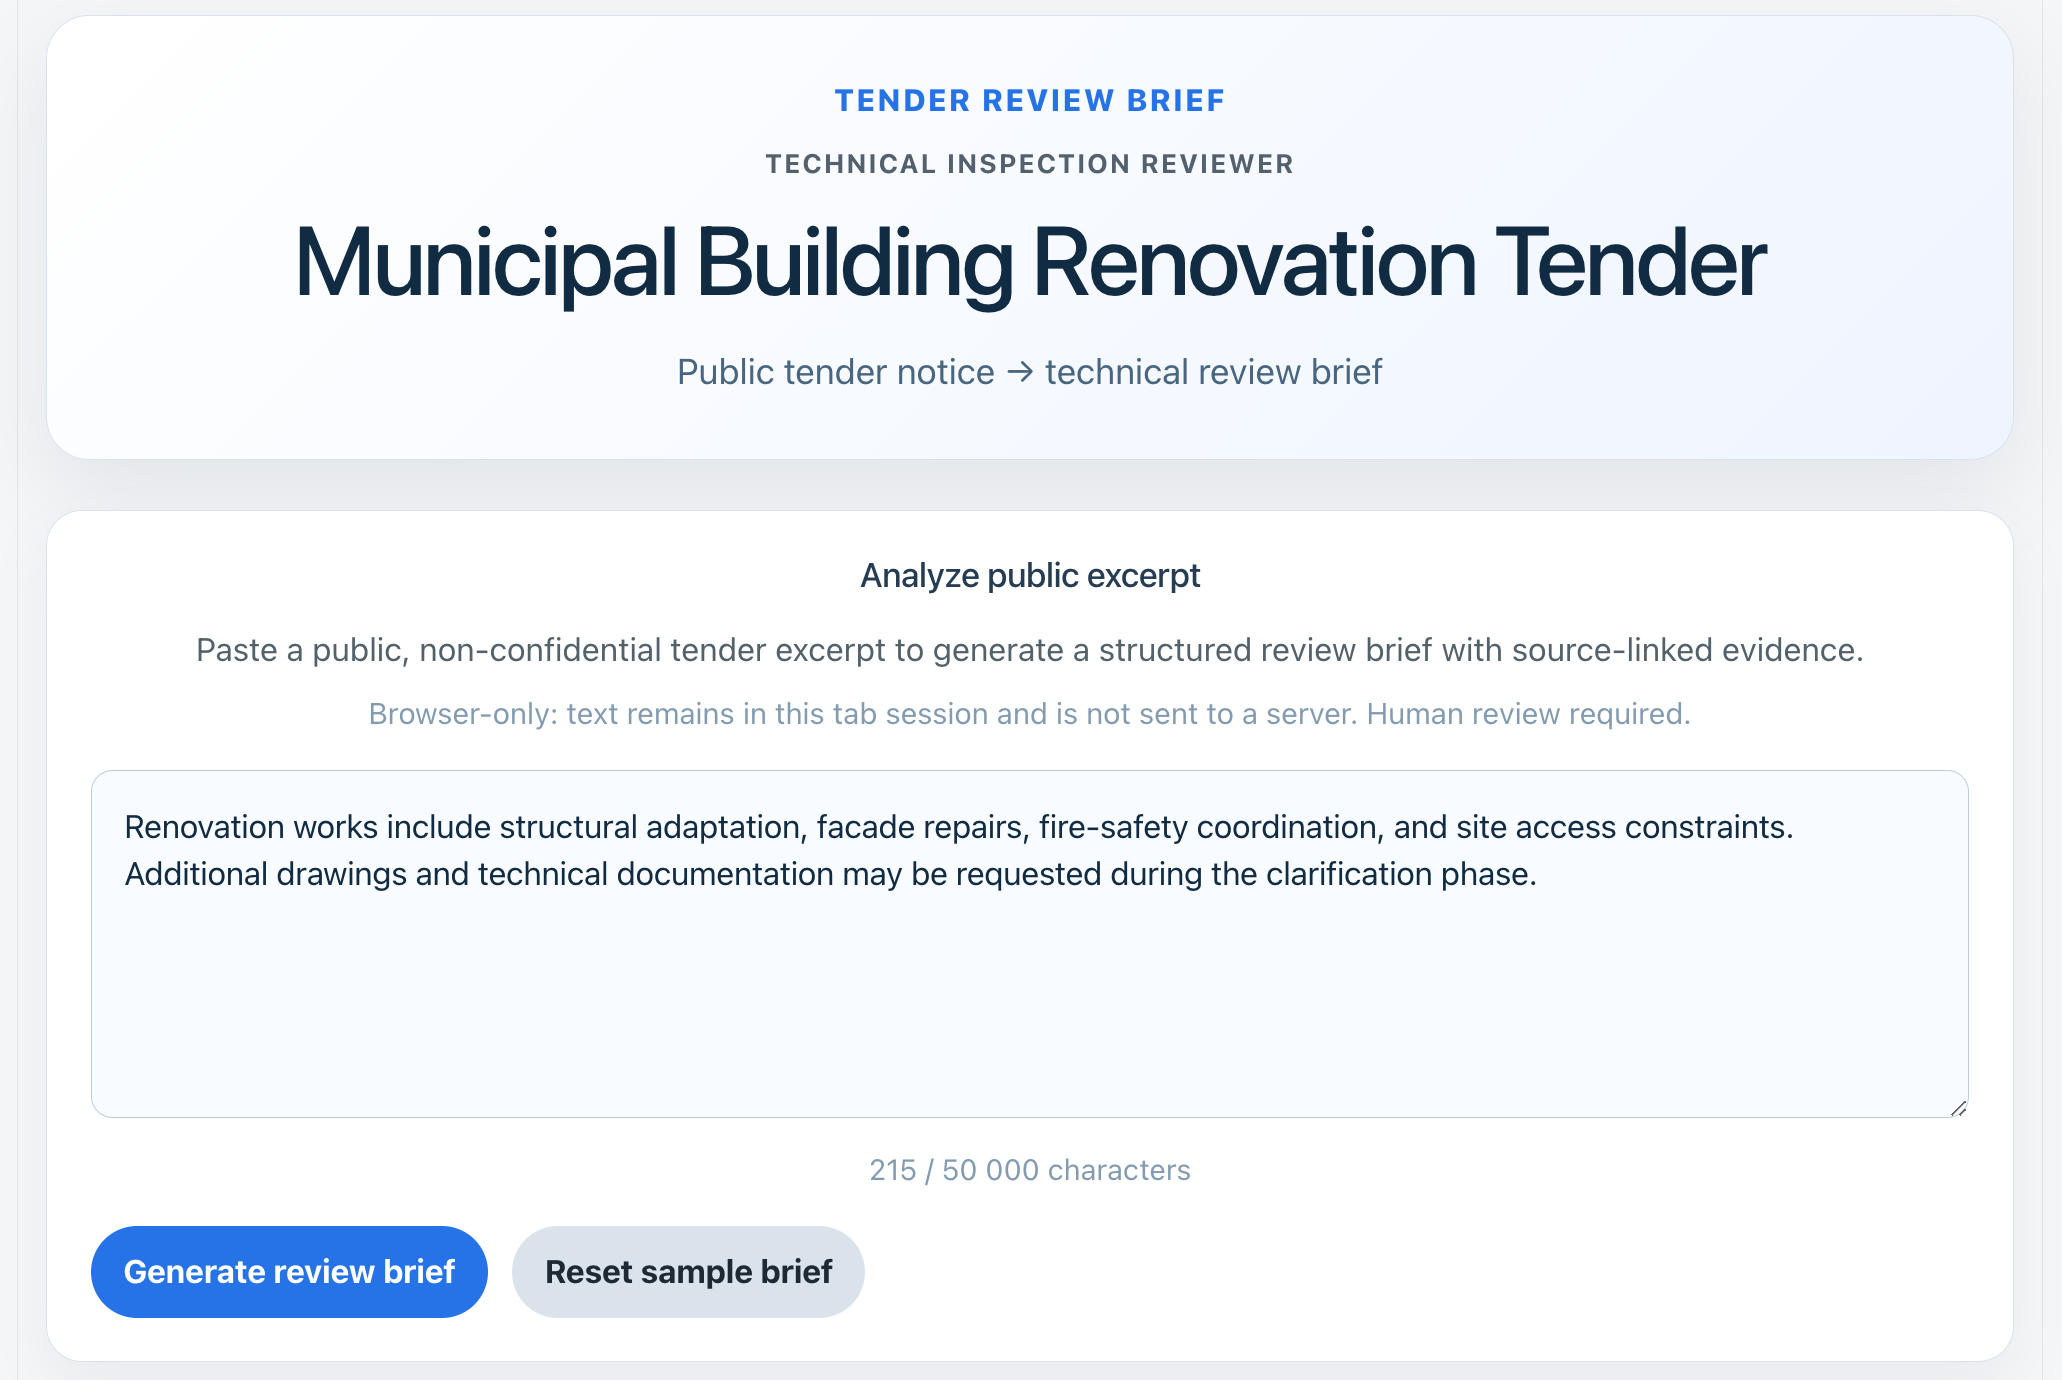
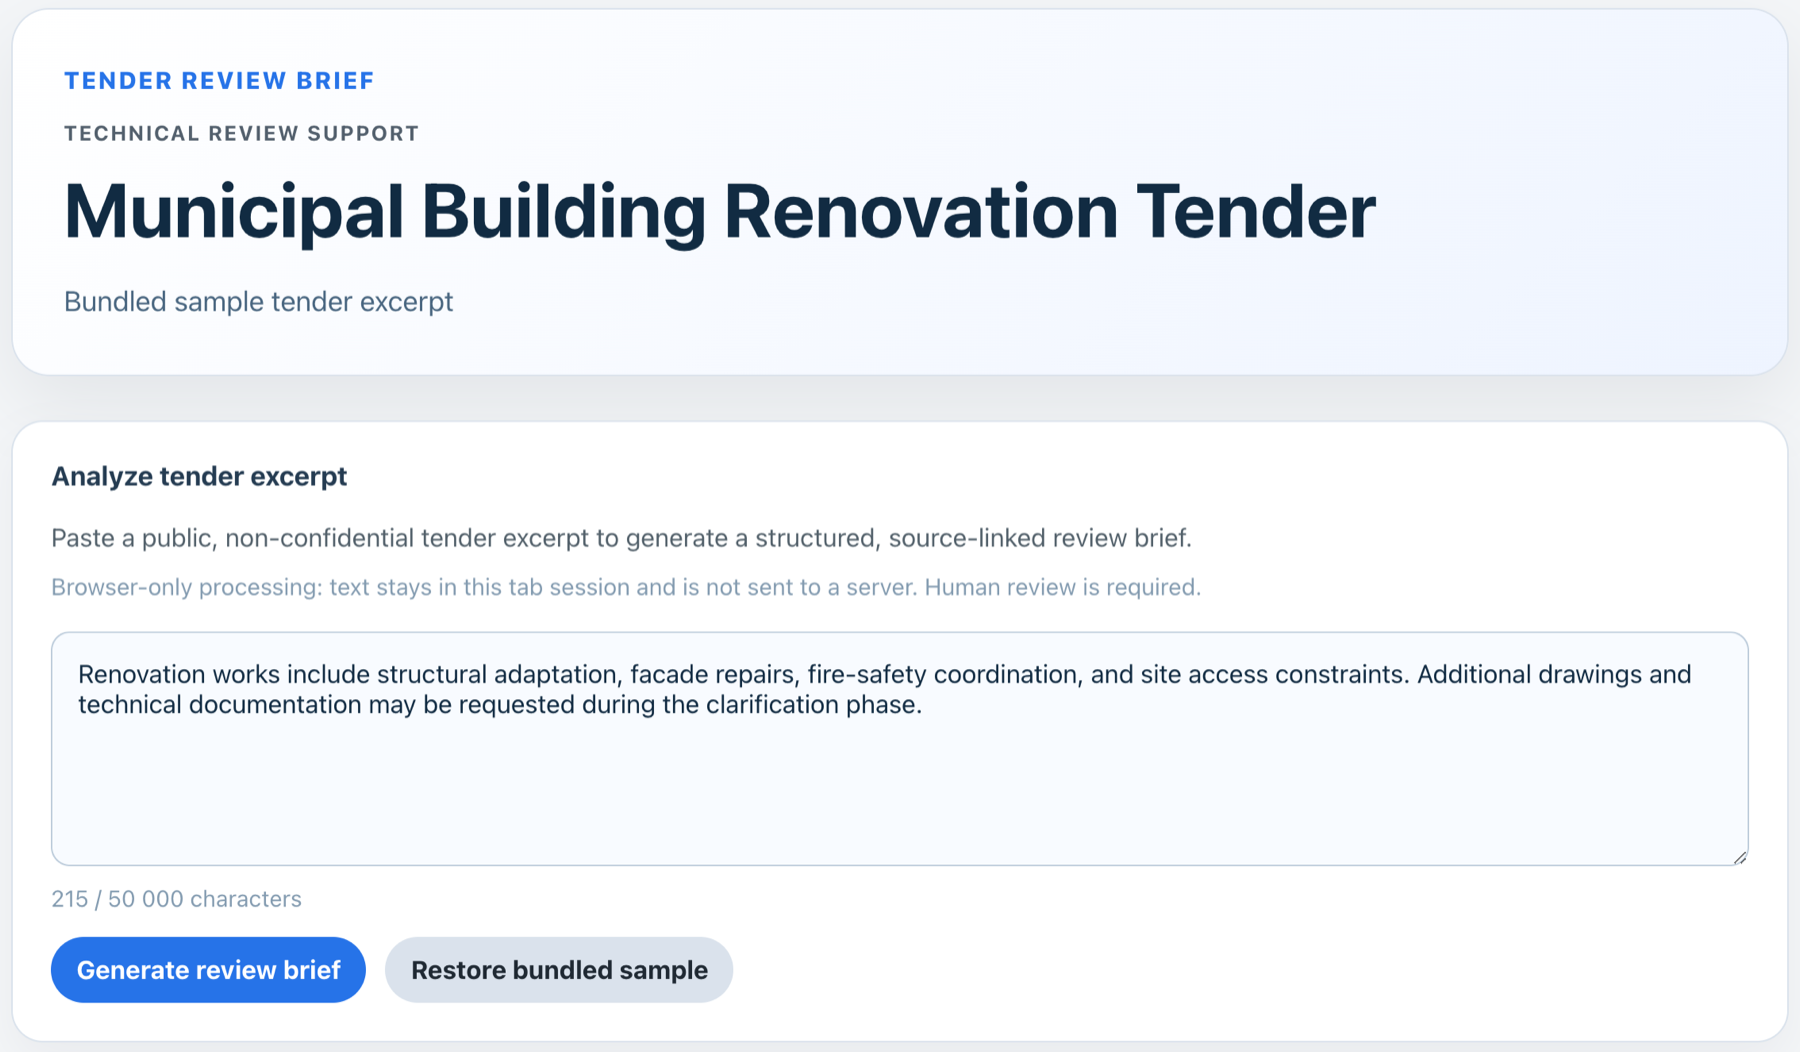
Add the live application link and refresh screenshots
Adds the deployed application link, refreshes the interface screenshots, and aligns the documented reviewer workflow with the current interface.

diff --git a/README.md b/README.md
@@ -4,6 +4,8 @@ Tender Review Brief turns public construction tender excerpts into structured, s
 
 The application uses an explicit set of boundary-aware keyword rules to identify technical scopes, review focus areas, follow-up checks, reviewer questions, and supporting source passages. It is designed to support, not replace, human technical review.
 
+**Live application:** [Open Tender Review Brief](https://nikolayair.github.io/tender-review-brief/)
+
 **Stack:** React · JavaScript · CSS · Vite · Vitest · ESLint
 
 ## Interface
@@ -28,8 +30,8 @@ The application uses an explicit set of boundary-aware keyword rules to identify
 
 1. Paste a public, non-confidential tender excerpt.
 2. Generate a structured review brief.
-3. Review the detected scopes and potential focus areas.
-4. Check the suggested follow-up questions against the complete source documentation.
+3. Review the detected scopes and suggested focus areas.
+4. Check the suggested follow-up checks and reviewer questions against the complete tender documentation.
 5. Confirm each finding through human technical review.
 
 The reviewer remains responsible for interpreting the source material and deciding what requires further investigation.
